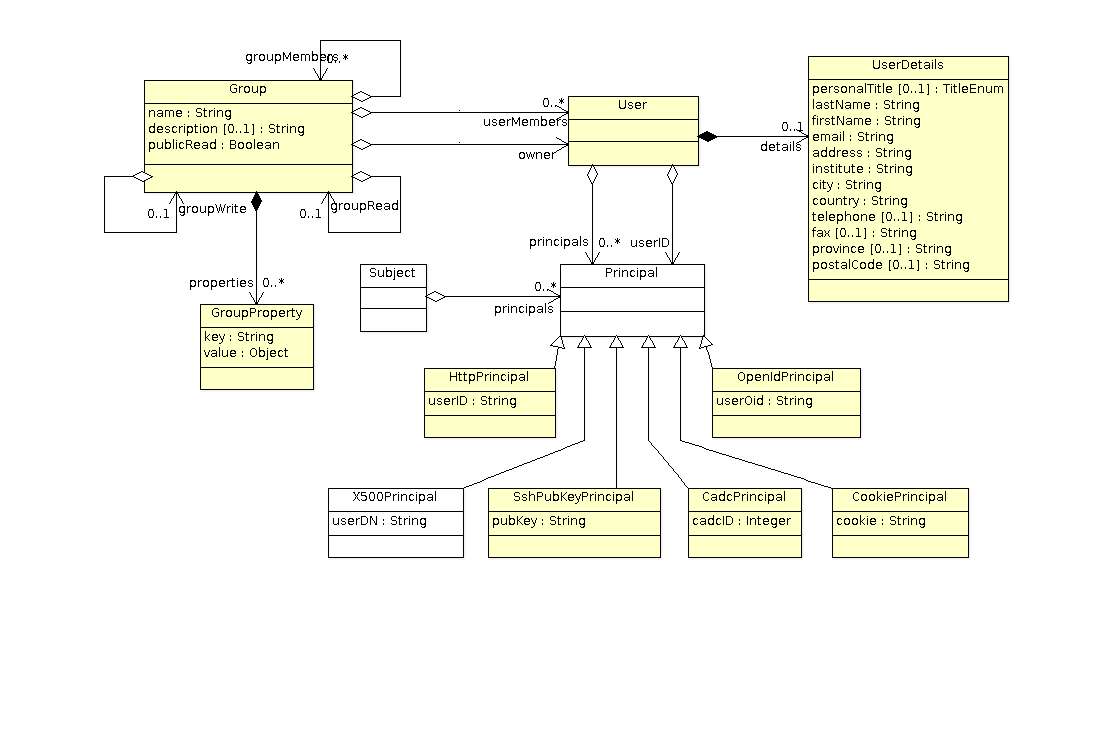
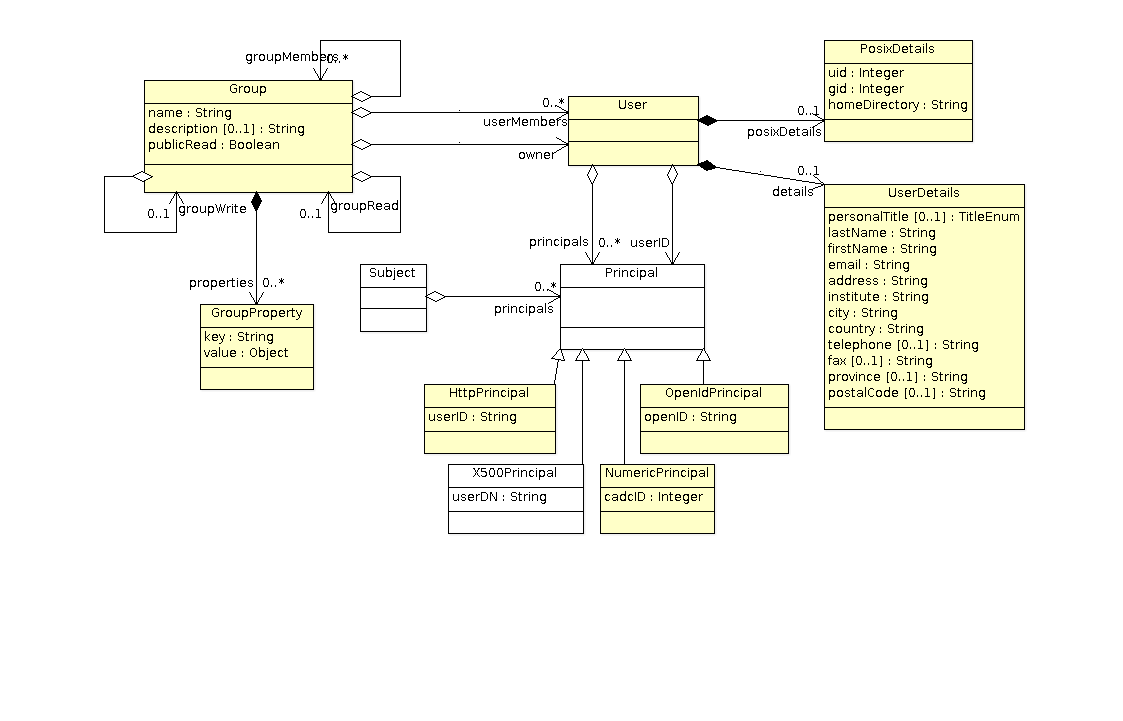
Added the core authorization classes

Changed region(s): [[0.0921, 0.0305, 0.9214, 0.7628], [0.3071, 0.0305, 0.3686, 0.061]]

diff --git a/projects/cadcUtil/doc/auth.html b/projects/cadcUtil/doc/auth.html
@@ -19,13 +19,11 @@
 <a href="uml/UserAuth.png">  <img src="uml/UserAuth.png" alt="CADC User Authorization Model"></a>
 
 <h2>User Class Features </h2>
-In the system, a user is uniquely identified by a Principal (in CADC's case that is the CadcPrincipal) but can have a number of other  identities for different contexts:
+In the system, a user is uniquely identified by one Principal (in CADC's case that is of type NumericPrincipal) but can have a number of other  identities for different contexts:
 <ul>
     <li>HttpPrincipal: Web user identity associated with Simple HHTP User Password access.</li>
     <li>X500Principal: X509 certificate identity. </li>
-    <li>SShPubKeyPrincipal: An ssh key identity. </li>
-    <li>CadcPrincipal: An identity used internally at the CADC. </li>
-    <li>CookiePrincipal: Cookie based identity. </li>
+    <li>NumericPrincipal: An numeric identity associated with a user. Typically, used internally within a system.</li>
     <li>OpenIdPrincipal: An OpenID identity. </li>
 </ul>
 
